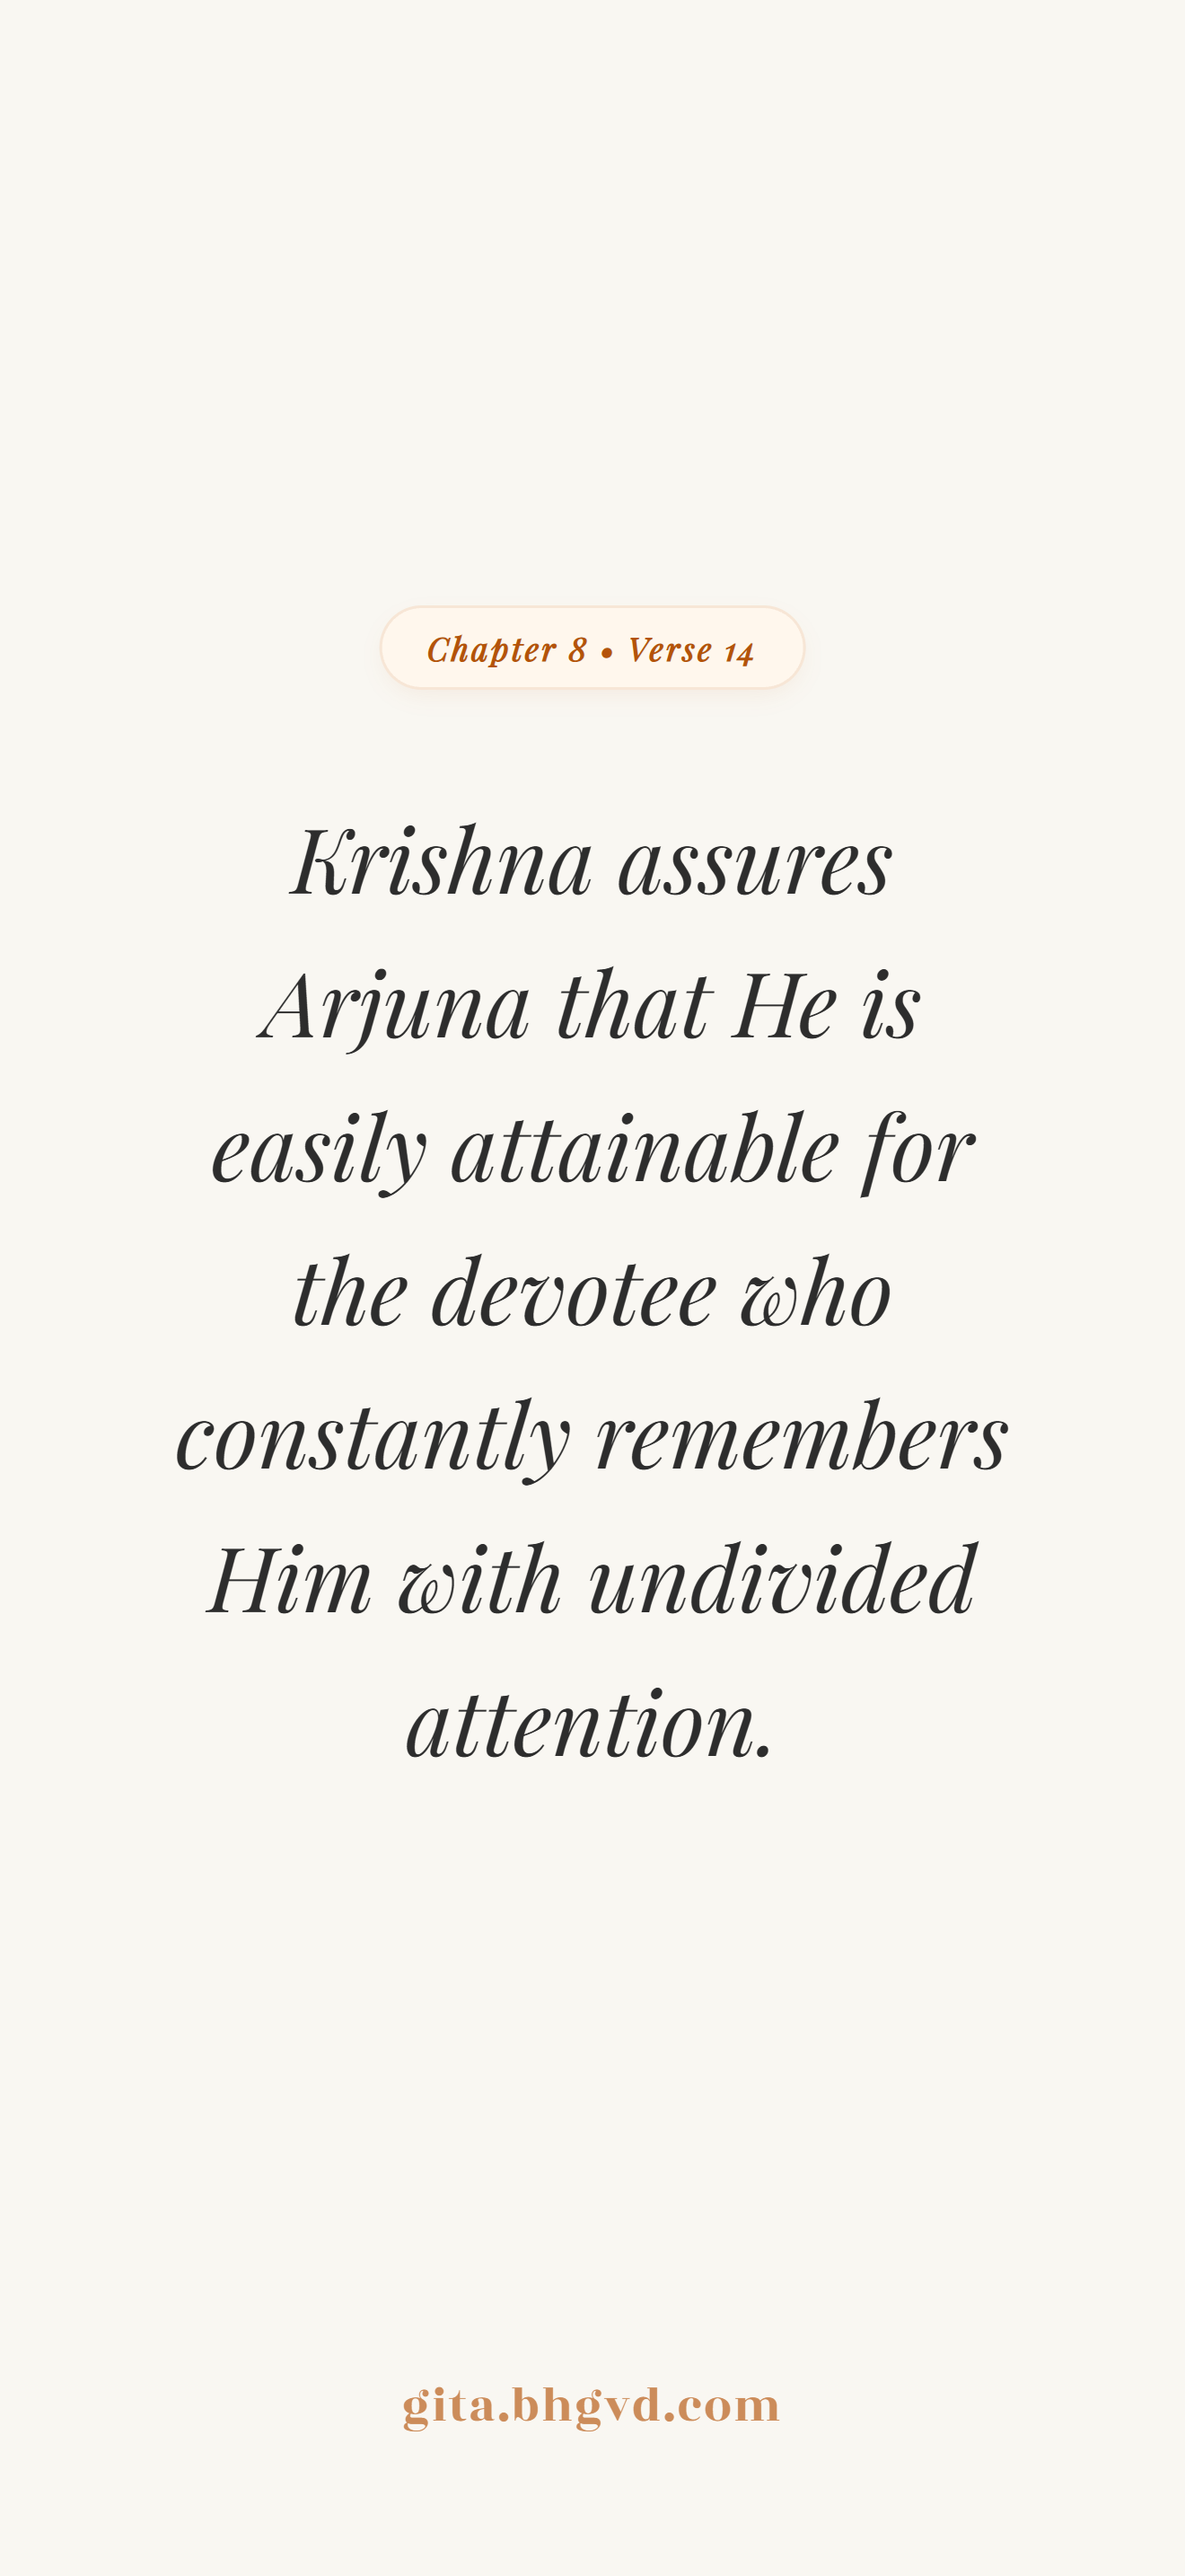
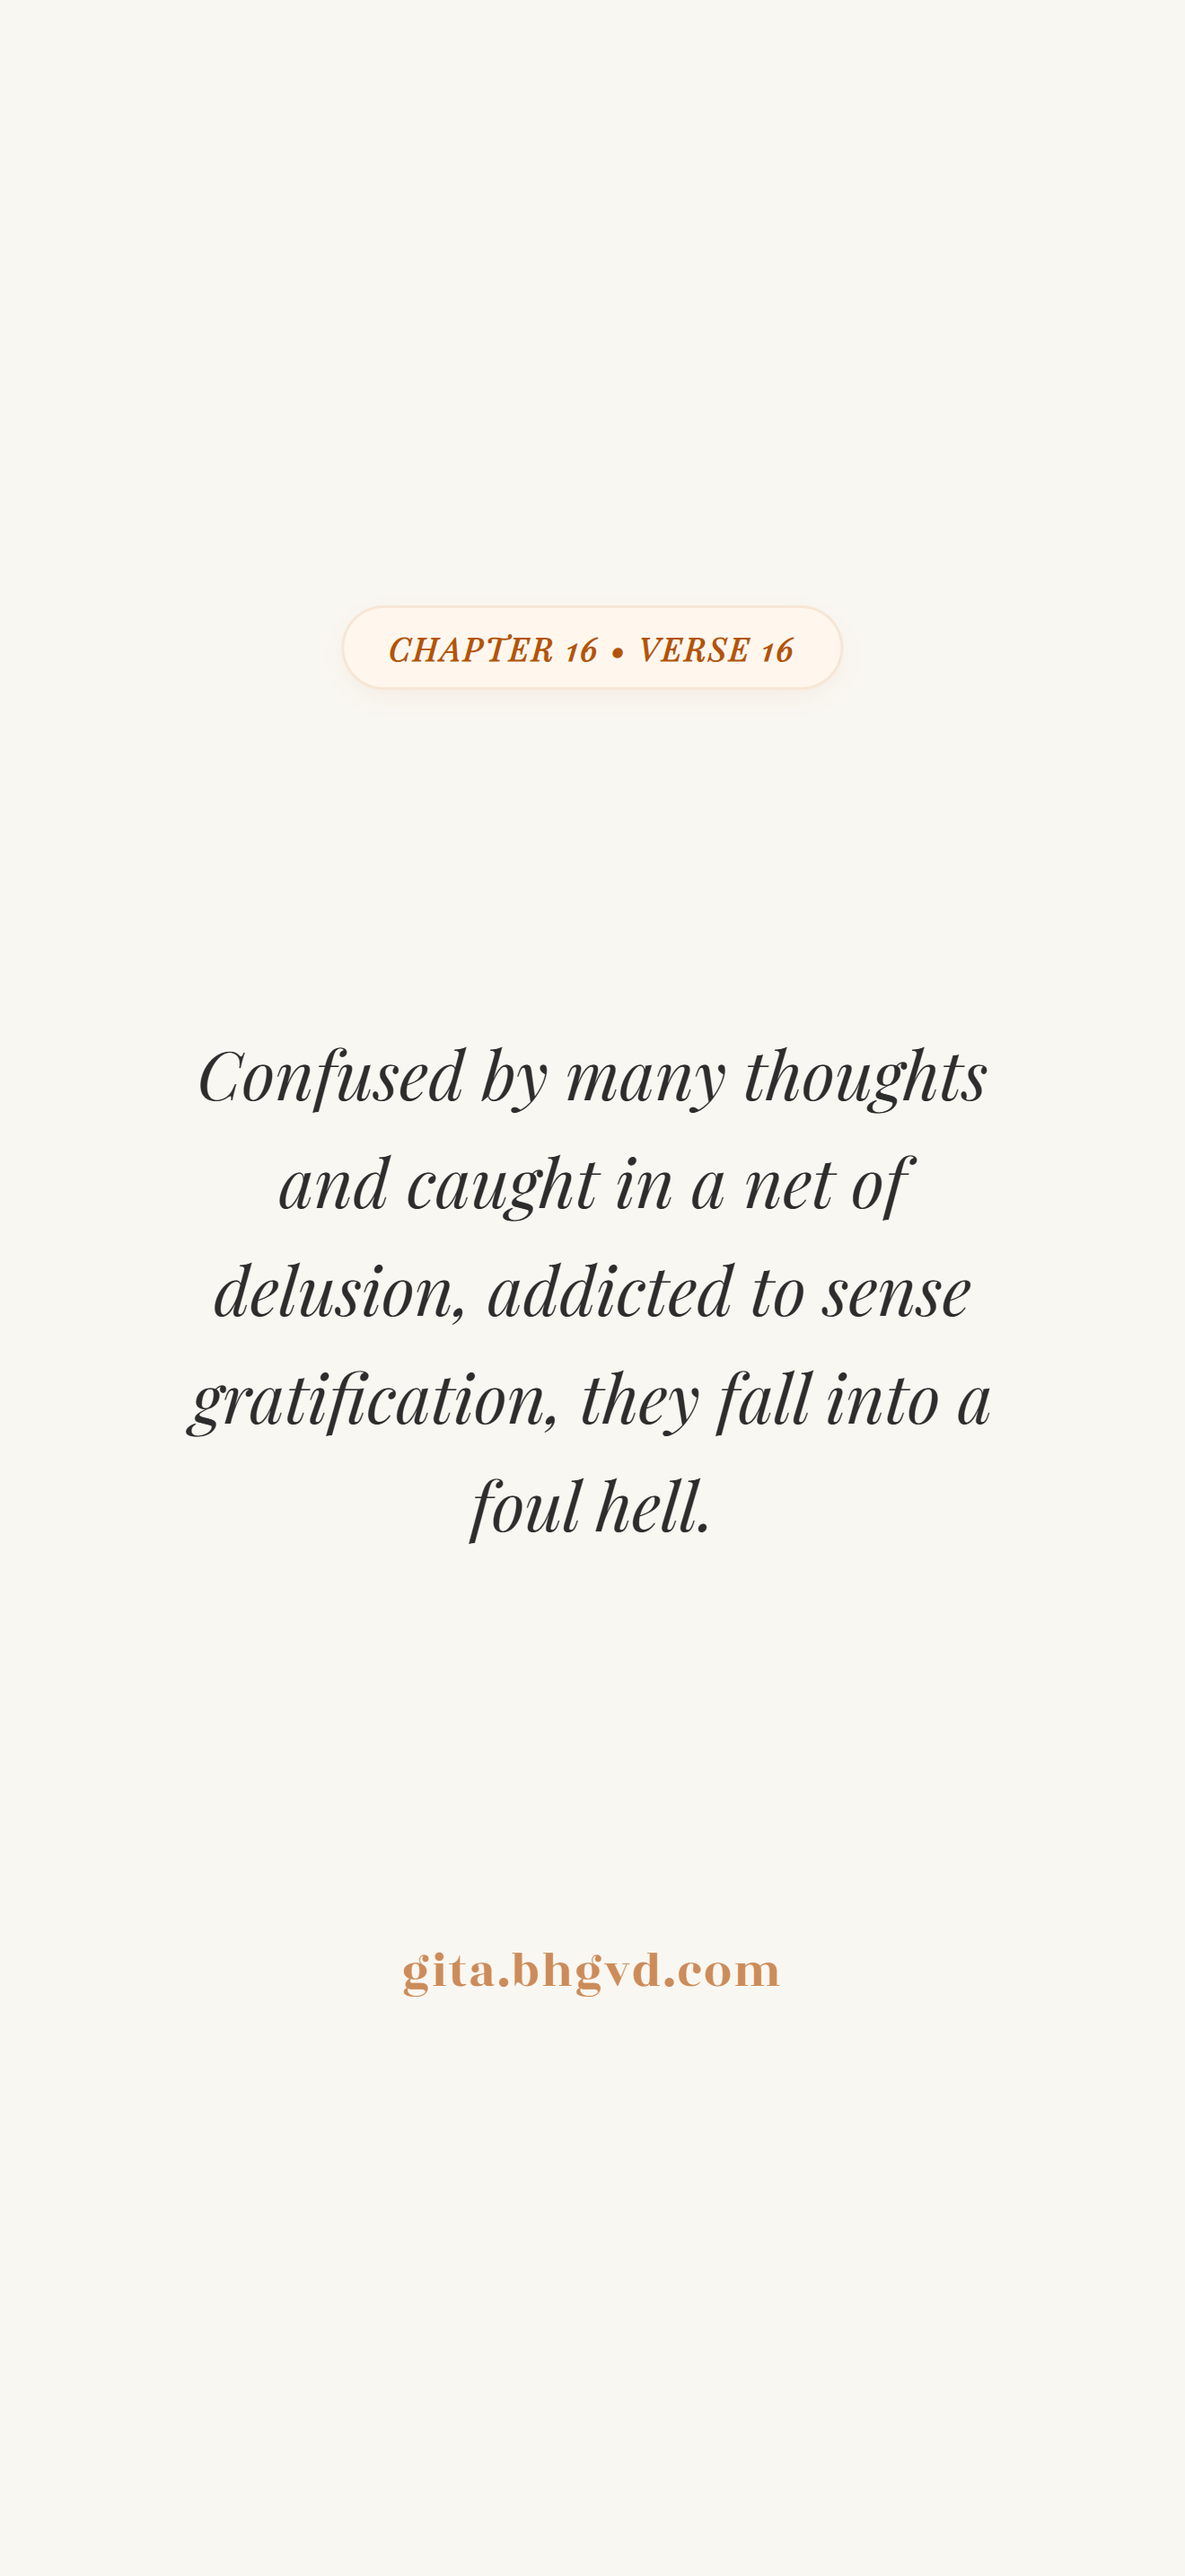
upd

diff --git a/update-wallpaper.js b/update-wallpaper.js
@@ -56,19 +56,18 @@ async function generateWallpapers() {
 
                 /* Fixed Box for Translation */
                 .text-box {
-                    position: relative; /* Becomes the anchor for the verse pill */
+                    position: relative; 
                     width: 1000px;
                     height: 1400px;
                     display: flex;
                     align-items: center;
                     justify-content: center;
-                    /* border: 1px dashed rgba(0,0,0,0.1); /* Uncomment to see the box boundaries */
                 }
 
-                /* Verse Pill - Now sitting on top of the text box */
+                /* Verse Pill - Sitting on top edge of the box */
                 #verse-reference {
                     position: absolute;
-                    top: -60px; /* Moves it up to "sit" on the top edge */
+                    top: -60px; 
                     left: 50%;
                     transform: translateX(-50%);
                     
@@ -81,32 +80,38 @@ async function generateWallpapers() {
                     font-weight: 700;
                     font-style: italic;
                     border: 3px solid rgba(180, 83, 9, 0.1);
+                    text-transform: uppercase;
                     letter-spacing: 3px;
                     z-index: 10;
                     white-space: nowrap;
-                    box-shadow: 0 10px 30px -10px rgba(180, 83, 9, 0.1); /* Adds subtle depth */
+                    box-shadow: 0 10px 30px -10px rgba(180, 83, 9, 0.1);
                 }
 
+                /* Translation Text */
                 #translation-text {
                     font-family: 'Playfair Display', serif;
                     color: #2D2D2D;
-                    font-size: 100px; 
+                    font-size: 75px; /* Decreased font size */
                     line-height: 1.6;
                     font-style: italic;
                     text-align: center;
                     padding: 0 20px;
                     
-                    /* Ensure text stays within box */
                     max-height: 100%; 
                     overflow: hidden;
                     display: -webkit-box;
-                    -webkit-line-clamp: 7; /* Approximate max lines to prevent cutoff looks */
+                    -webkit-line-clamp: 9;
                     -webkit-box-orient: vertical;
                 }
 
+                /* Footer Link - Now anchored to the bottom of the TEXT BOX */
                 .wallpaper-footer {
                     position: absolute;
-                    bottom: 150px;
+                    bottom: -100px; /* Positioned just below the box */
+                    left: 0;
+                    right: 0;
+                    text-align: center;
+                    
                     font-family: 'Rozha One', serif;
                     font-size: 55px;
                     color: #B45309;
@@ -119,9 +124,9 @@ async function generateWallpapers() {
                 <div class="text-box">
                     <div id="verse-reference">Chapter ${verse.chapter} • Verse ${verse.verse}</div>
                     <div id="translation-text">${textContent}</div>
+                    
+                    <div class="wallpaper-footer">gita.bhgvd.com</div>
                 </div>
-
-                <div class="wallpaper-footer">gita.bhgvd.com</div>
             </body>
             </html>
         `;
@@ -129,7 +134,6 @@ async function generateWallpapers() {
         await page.setContent(htmlContent);
         await page.evaluateHandle('document.fonts.ready');
 
-        // Save specific language file
         const fileName = `wallpaper-${lang.code}.png`;
         await page.screenshot({ path: fileName });
         console.log(`Generated ${fileName}`);
